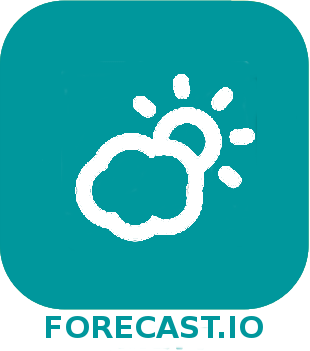
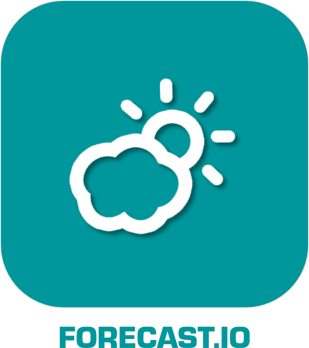
Evol widget et icone

diff --git a/core/template/dashboard/current.html b/core/template/dashboard/current.html
@@ -15,8 +15,8 @@
         </div>
     </div>
     <span style="margin-left: 5px;"class="cmd noRefresh" data-type="info" data-subtype="string" data-cmd_id="#conditionid#">  #condition# </span><br/>
-    <span style="margin-left: 5px;font-size: 0.8em;" class="cmd noRefresh" data-type="info" data-subtype="string" data-cmd_id="#tempid#">  #temperature# °C / #humidity# % </span><br/>
-    <span style="margin-left: 5px;font-size: 0.8em;" class="cmd noRefresh" data-type="info" data-subtype="string" data-cmd_id="#pressureid#">  #windspeed# km/h | #pressure# mb</span>
+    <span style="margin-left: 5px;font-size: 0.8em;" class="cmd noRefresh" data-type="info" data-subtype="string" data-cmd_id="#tempid#">  #temperature# °C / #humidity# %  </span></span><br/>
+    <span style="margin-left: 5px;font-size: 0.8em;" class="cmd noRefresh" data-type="info" data-subtype="string" data-cmd_id="#pressureid#">  #windspeed# km/h | #pressure# mb  </span>
 </div><br/>
 <div style="margin-top: -15px;">
     <center>#forecast#</center>

diff --git a/core/template/mobile/current.html b/core/template/mobile/current.html
@@ -15,4 +15,14 @@
 			jeedom.cmd.execute({id: '#refresh_id#'});
 		});
 	</script>
+
+	<script src="plugins/forecastio/desktop/js/skycons.js"></script>
+
+	<script>
+	  var skycons = new Skycons({'color':'white'});
+
+	  skycons.set('forecastio#iconeid#', '#icone#');
+
+	  skycons.play();
+	</script>
 </div>

diff --git a/core/class/forecastio.class.php b/core/class/forecastio.class.php
@@ -1776,7 +1776,7 @@ class forecastio extends eqLogic {
       }
     }
 
-    return ;
+    $this->refreshWidget();
   }
 
   public function loadingData($eqlogic) {
@@ -2003,6 +2003,10 @@ class forecastio extends eqLogic {
     $temperature = $this->getCmd(null, 'temperature');
     $replace['#temperature#'] = is_object($temperature) ? round($temperature->execCmd()) : '';
     $replace['#tempid#'] = is_object($temperature) ? $temperature->getId() : '';
+
+    $conditionday = $this->getCmd(null, 'summaryhours');
+    $replace['#conditionday#'] = is_object($conditionday) ? $conditionday->execCmd() : '';
+    $replace['#conditiondayid#'] = is_object($conditionday) ? $conditionday->getId() : '';
 
     $humidity = $this->getCmd(null, 'humidity');
     $replace['#humidity#'] = is_object($humidity) ? $humidity->execCmd() : '';
